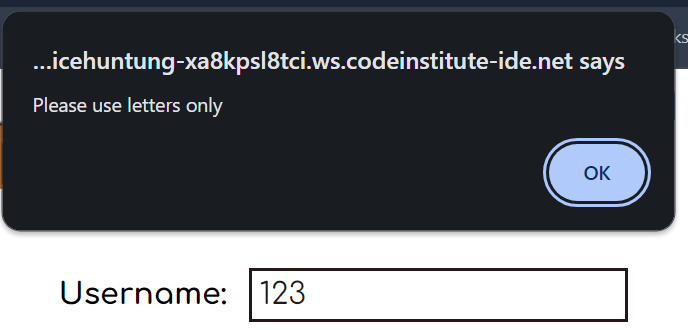
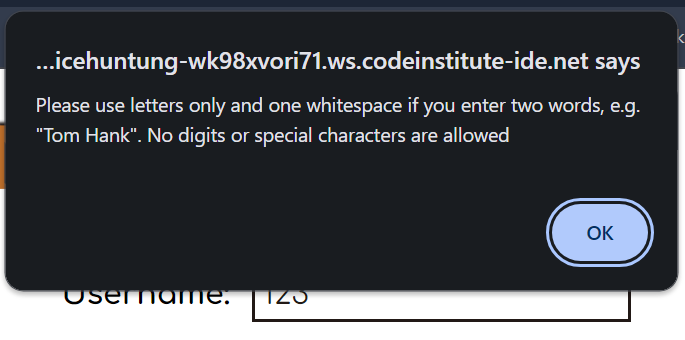
Fix RegEx for username, update Readme bugs section

diff --git a/assets/js/script.js b/assets/js/script.js
@@ -196,18 +196,19 @@ function startGame() {
  * and assigns it to username variable
  */
 function validateUsername() {
-    const enteredUsername = document.getElementById('username').value;
+    const enteredUsername = document.getElementById('username').value.trim();
     // The source https://stackoverflow.com/questions/9628879/javascript-regex-username-validation
-    const usernamePattern = /^[a-zA-Z ]+$/;
+    // The info for bug fix https://www.w3schools.com/jsref/jsref_obj_regexp.asp
+    const usernamePattern = /^[A-z]+\s?[A-z]*$/;
     if (enteredUsername.length < 1) {
         alert("Please enter your name");
     } else if (enteredUsername.length > 20) {
         alert("You can use up to 20 characters only");
-    } else if (enteredUsername.match(usernamePattern)) {
+    } else if (usernamePattern.test(enteredUsername)) {
         username = enteredUsername;
         return true;
     } else {
-        alert("Please use letters only");
+        alert('Please use letters only and one whitespace if you enter two words, e.g. "Tom Hank". No digits or special characters are allowed');
     }
 }
 
@@ -366,7 +367,7 @@ function checkValues() {
         countResult();
     } else if (parseInt(currentScore.innerHTML) === 5) {
         objectsReset();
-        window.setTimeout(displayWin, 1500);
+        window.setTimeout(displayWin, 1200);
     }
 }
 
@@ -377,9 +378,10 @@ function checkValues() {
 function countResult() {
     const userScore = parseInt(currentScore.innerHTML);
     if (userScore === winValue) {
-        window.setTimeout(displayWin, 1300);
+        window.setTimeout(displayWin, 1200);
+        displayWin();
     } else if (userScore < winValue) {
-        window.setTimeout( displayLoss, 1300);
+        window.setTimeout(displayLoss, 1200);
     } else {
         alert("Invalid user score");
     }

diff --git a/README.md b/README.md
@@ -74,7 +74,7 @@ The game has three areas: start area, game area and result area. The [start area
 
 - ### Username
 ![Username](./README-images/username.png) 
- #### The field to enter the name. It accepts only English letters and spaces. The user is entitled to enter at least one character/space. The maximum characters is set to 20. The entered output is used in messages later in the game and result areas.
+ #### The field to enter the name. It accepts only English letters and whitespace. The user is entitled to enter at least one character. The maximum characters is set to 20. The entered output is used in messages later in the game and result areas.
 
  - ### Choose character
 ![characters](./README-images/choose-character.png) 
@@ -181,7 +181,8 @@ Click on the "sound off" icon at top right corner | Change icon to "sound on", t
 Click on the "sound on" icon at top right corner | Change icon to "sound off", the sound is off | &check;
 Type in nothing in the username field and choose no character, click on start game button | Open message "Please enter your name" ([see](./README-images/enter-name.png)) | &check;
 Type in nothing in the username field but choose a character, click on start game button | Open message "Please enter your name" ([see](./README-images/enter-name.png)) | &check;
-Type in numbers in the username field, e.g. "123", click on start game button | Open message "Please use letters only" ([see](./README-images/use-letters.png)) | &check;
+Type in few whitespaces in the username field and choose no character, click on start game button | Open message "Please enter your name" ([see](./README-images/enter-name.png)) | &check;
+Type in numbers in the username field, e.g. "123", click on start game button | Open message "Please use letters only and one whitespace if you enter two words, e.g. "Tom Hank". No digits or special characters are allowed" ([see](./README-images/use-letters.png)) | &check;
 Type in more than 20 characters in the username field, click on start game button | Open message "You can use up to 20 characters only" ([see](./README-images/20-only.png)) | &check;
 Type in the username, e.g. "George", do not select a character, click on start game button | Open message "Please choose a character" ([see](./README-images/no-character-selected.png)) | &check;
 Click on the character at start area | Highlight the selected character ([see](./README-images/character-selected.png)) | &check;
@@ -225,9 +226,11 @@ Click on any button, sound is off | Hear no sound being played | &check;
 
 - When validating the html, I got the warning ["Possible misuse of aria-label"](./README-images/html-warning.png). The aria-label was used for the div containers which have background images. These images are the main game functionality and the screen reader should see them and identify. The source https://www.w3schools.com/accessibility/accessibility_meaningful_images.php explains how to inform the browser that the particular image is important and should be read by the screen reader. I have added 'role="img"' next to aria-labels created before. No warnings has been discovered since.
 
+- The validation of the username (regular expression) is set for letters and spaces (for example, "Tom Hank"). It has a bug of accepting a name consisting only of whitespaces. To fix it, I replaced a pattern with a better one '/^[A-z]+\s?[A-z]*$/'. I used test method instead of match and added trim method to remove all whitespaces at the beginning and the end of entered words. Now the name accepted cannot have more than one whitespace.
+
 ### Unfixed Bugs
 
-- The validation of the username is set for letters and spaces (for example, "Tom Hank"). This will accept a name consisting only of spaces too.
+- After the user used last try, if he quickly clicks on "Restart" button, he cannot start the new game immediately. The result area will show up anyways, but the total score will be reset to 0, due to countResult function working and calling the displayWin/Loss functions with a delay of 1200ms.
 
 
 ## Deployment
